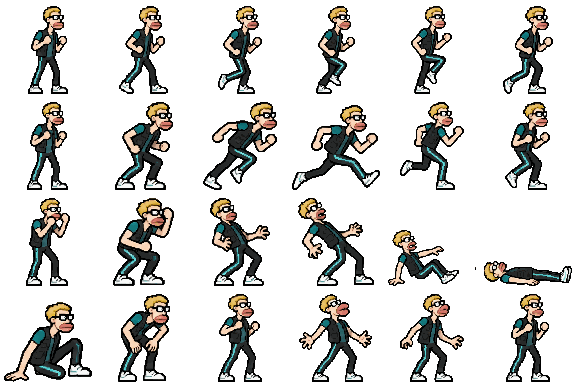
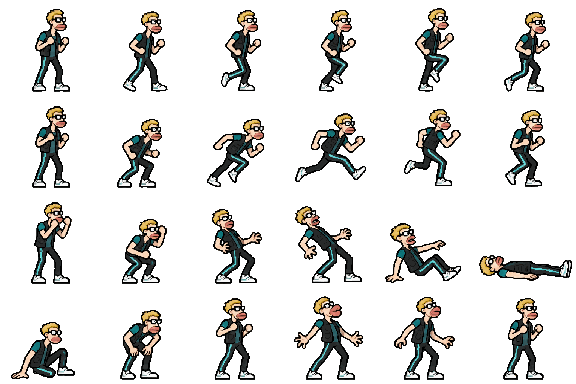
Fix Beiçola sprite proportions and guard poses

diff --git a/src/beicola.js b/src/beicola.js
@@ -1,11 +1,11 @@
 'use strict';
 
 // Sprites do Beiçola: corpo, ataques e vento/som são atlas independentes.
-const beicolaAttacks=imageAsset('assets/fighters/beicola_attacks.png?v=posefix2');
-const beicolaMovement=imageAsset('assets/fighters/beicola_movement.png?v=posefix2');
-const beicolaSpecials=imageAsset('assets/fighters/beicola_specials.png?v=posefix2');
-const beicolaResults=imageAsset('assets/fighters/beicola_results.png?v=posefix2');
-const beicolaEffects=imageAsset('assets/fighters/beicola_fx.png?v=posefix2');
+const beicolaAttacks=imageAsset('assets/fighters/beicola_attacks.png?v=proportion3');
+const beicolaMovement=imageAsset('assets/fighters/beicola_movement.png?v=proportion3');
+const beicolaSpecials=imageAsset('assets/fighters/beicola_specials.png?v=proportion3');
+const beicolaResults=imageAsset('assets/fighters/beicola_results.png?v=proportion3');
+const beicolaEffects=imageAsset('assets/fighters/beicola_fx.png?v=proportion3');
 
 function drawBeicolaAtlasFrame(image,index,columns,cell,scale){
  const x=(index%columns)*cell,y=Math.floor(index/columns)*cell;
@@ -66,6 +66,9 @@ function drawBeicola(f,t){
   return true;
  }
  let frame=arcadePose(f,t);
+ // Guarda alta protege o rosto; a baixa agacha e fecha a linha inferior.
+ if(f.action==='guard'||f.action==='blockstun')frame=f.lowGuard?6:5;
+ else if(f.action==='crouch')frame=3;
  if(f.action==='special')frame=16;
  if(f.action==='ultimate')frame=17;
  if(f.action==='hit'||f.action==='grabbed')frame=12;
@@ -90,10 +93,11 @@ function drawBeicolaEffect(f){
  ctx.save();
  ctx.translate(f.x+f.dir*28,f.y-f.c.size*.68);
  ctx.scale(f.dir,1);
- ctx.globalAlpha=.86;
+ ctx.globalAlpha=.98;
  ctx.imageSmoothingEnabled=false;
  // A camada visual é desenhada separada e não altera o corpo nem as hitboxes.
- ctx.drawImage(beicolaEffects,col*96,row*96,96,96,0,-32,width,64);
+ const height=clamp(f.c.size*.48,92,128);
+ ctx.drawImage(beicolaEffects,col*96,row*96,96,96,0,-height*.56,width,height);
  ctx.restore();
 }
 

diff --git a/src/textures.js b/src/textures.js
@@ -304,7 +304,7 @@ const pneusonFrames = {
 
 const pitufoHouse=imageAsset('assets/stages/pitufolandia.png');
 const court=imageAsset('assets/stages/quadra-ceara.png');
-const arcadeSprites=Object.fromEntries(['chapinha','pitufo','gaga','mucutuba','beicola'].map(key=>[key,imageAsset(key==='beicola'?'assets/fighters/beicola_arcade_pixel.png?v=posefix2':`assets/fighters/${key}_arcade_pixel.png`)]));
+const arcadeSprites=Object.fromEntries(['chapinha','pitufo','gaga','mucutuba','beicola'].map(key=>[key,imageAsset(key==='beicola'?'assets/fighters/beicola_arcade_pixel.png?v=proportion3':`assets/fighters/${key}_arcade_pixel.png`)]));
 const dinoAtlas=imageAsset("assets/fighters/dino_arcade_pixel_verde.png");
 
 const powerAtlases=Object.fromEntries(Object.keys(powerFrames).map(key=>[key,imageAsset(`assets/fighters/${key}_powers${key==='dino'?'_verde':''}.png`)]));

diff --git a/index.html b/index.html
@@ -51,7 +51,7 @@
   <script src="src/textures.js?v=dino-clean-1" defer></script>
   <script src="src/audio.js?v=music-gapless" defer></script>
   <script src="src/poses.js?v=neneu-local-1" defer></script>
-  <script src="src/beicola.js?v=posefix2" defer></script>
+  <script src="src/beicola.js?v=proportion3" defer></script>
   <script src="src/menu.js?v=mobile-1" defer></script>
   <script src="src/input.js?v=mobile-1" defer></script>
   <script src="src/match.js?v=arena-select" defer></script>
